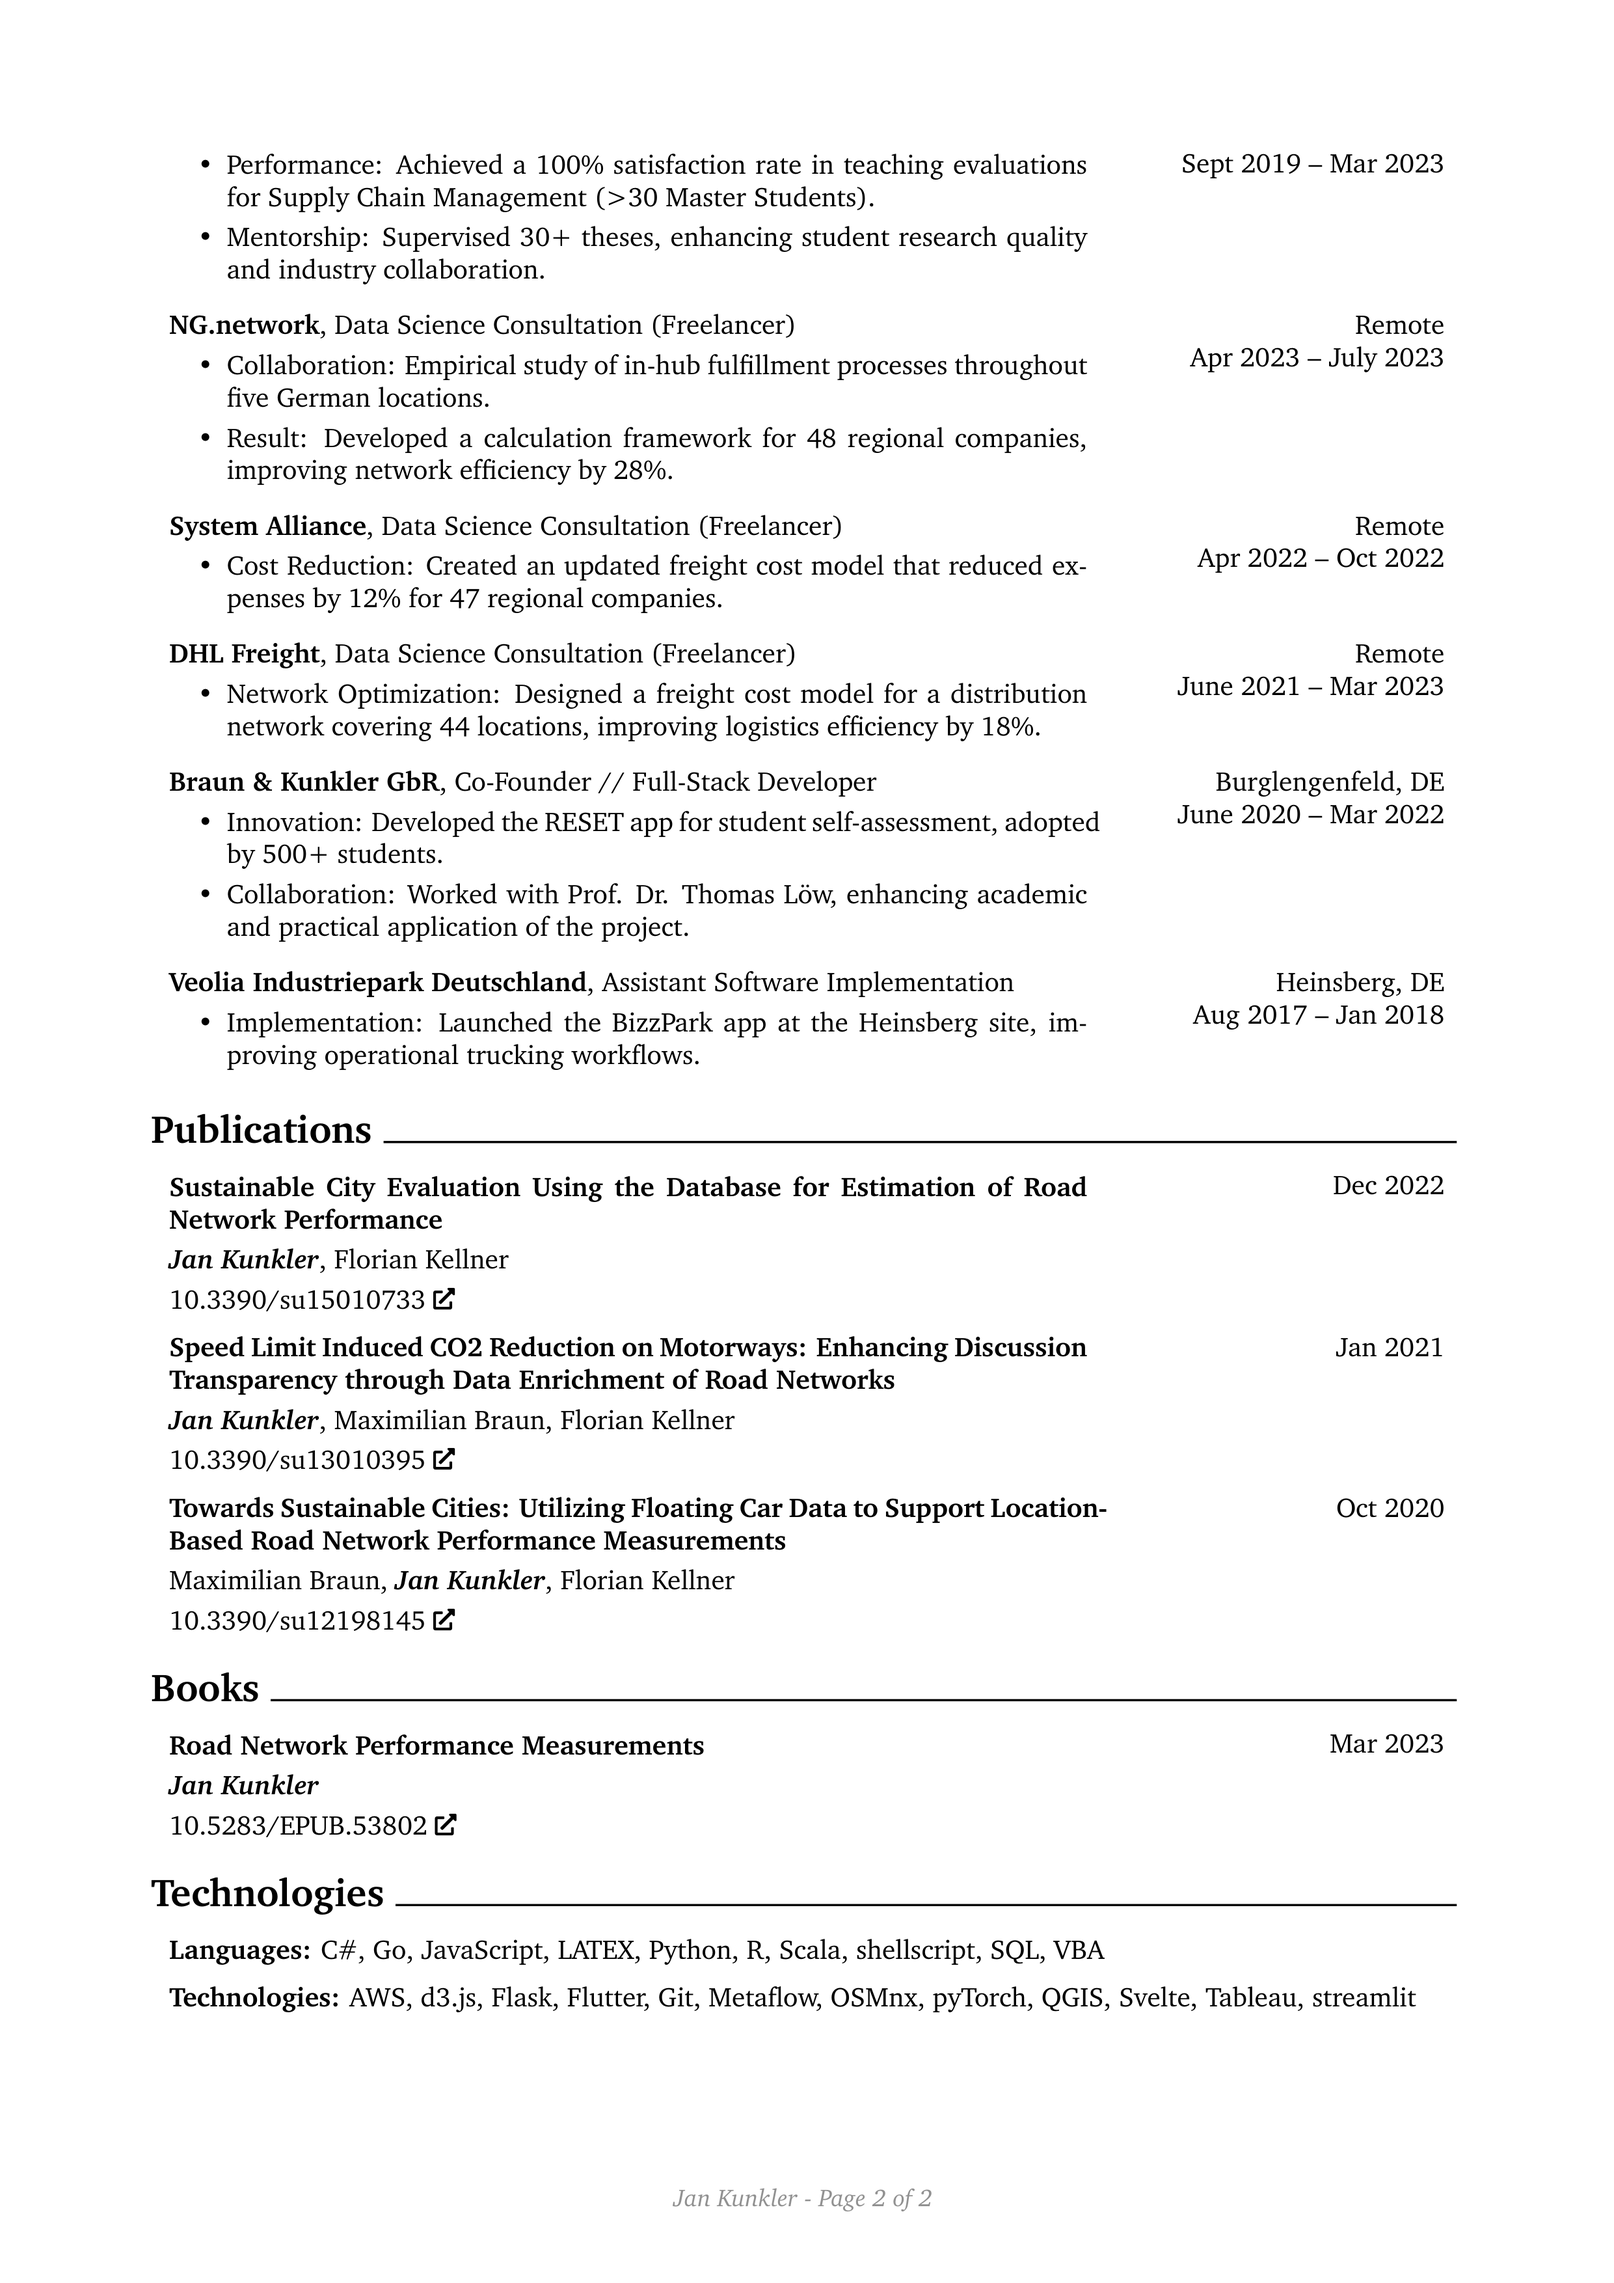
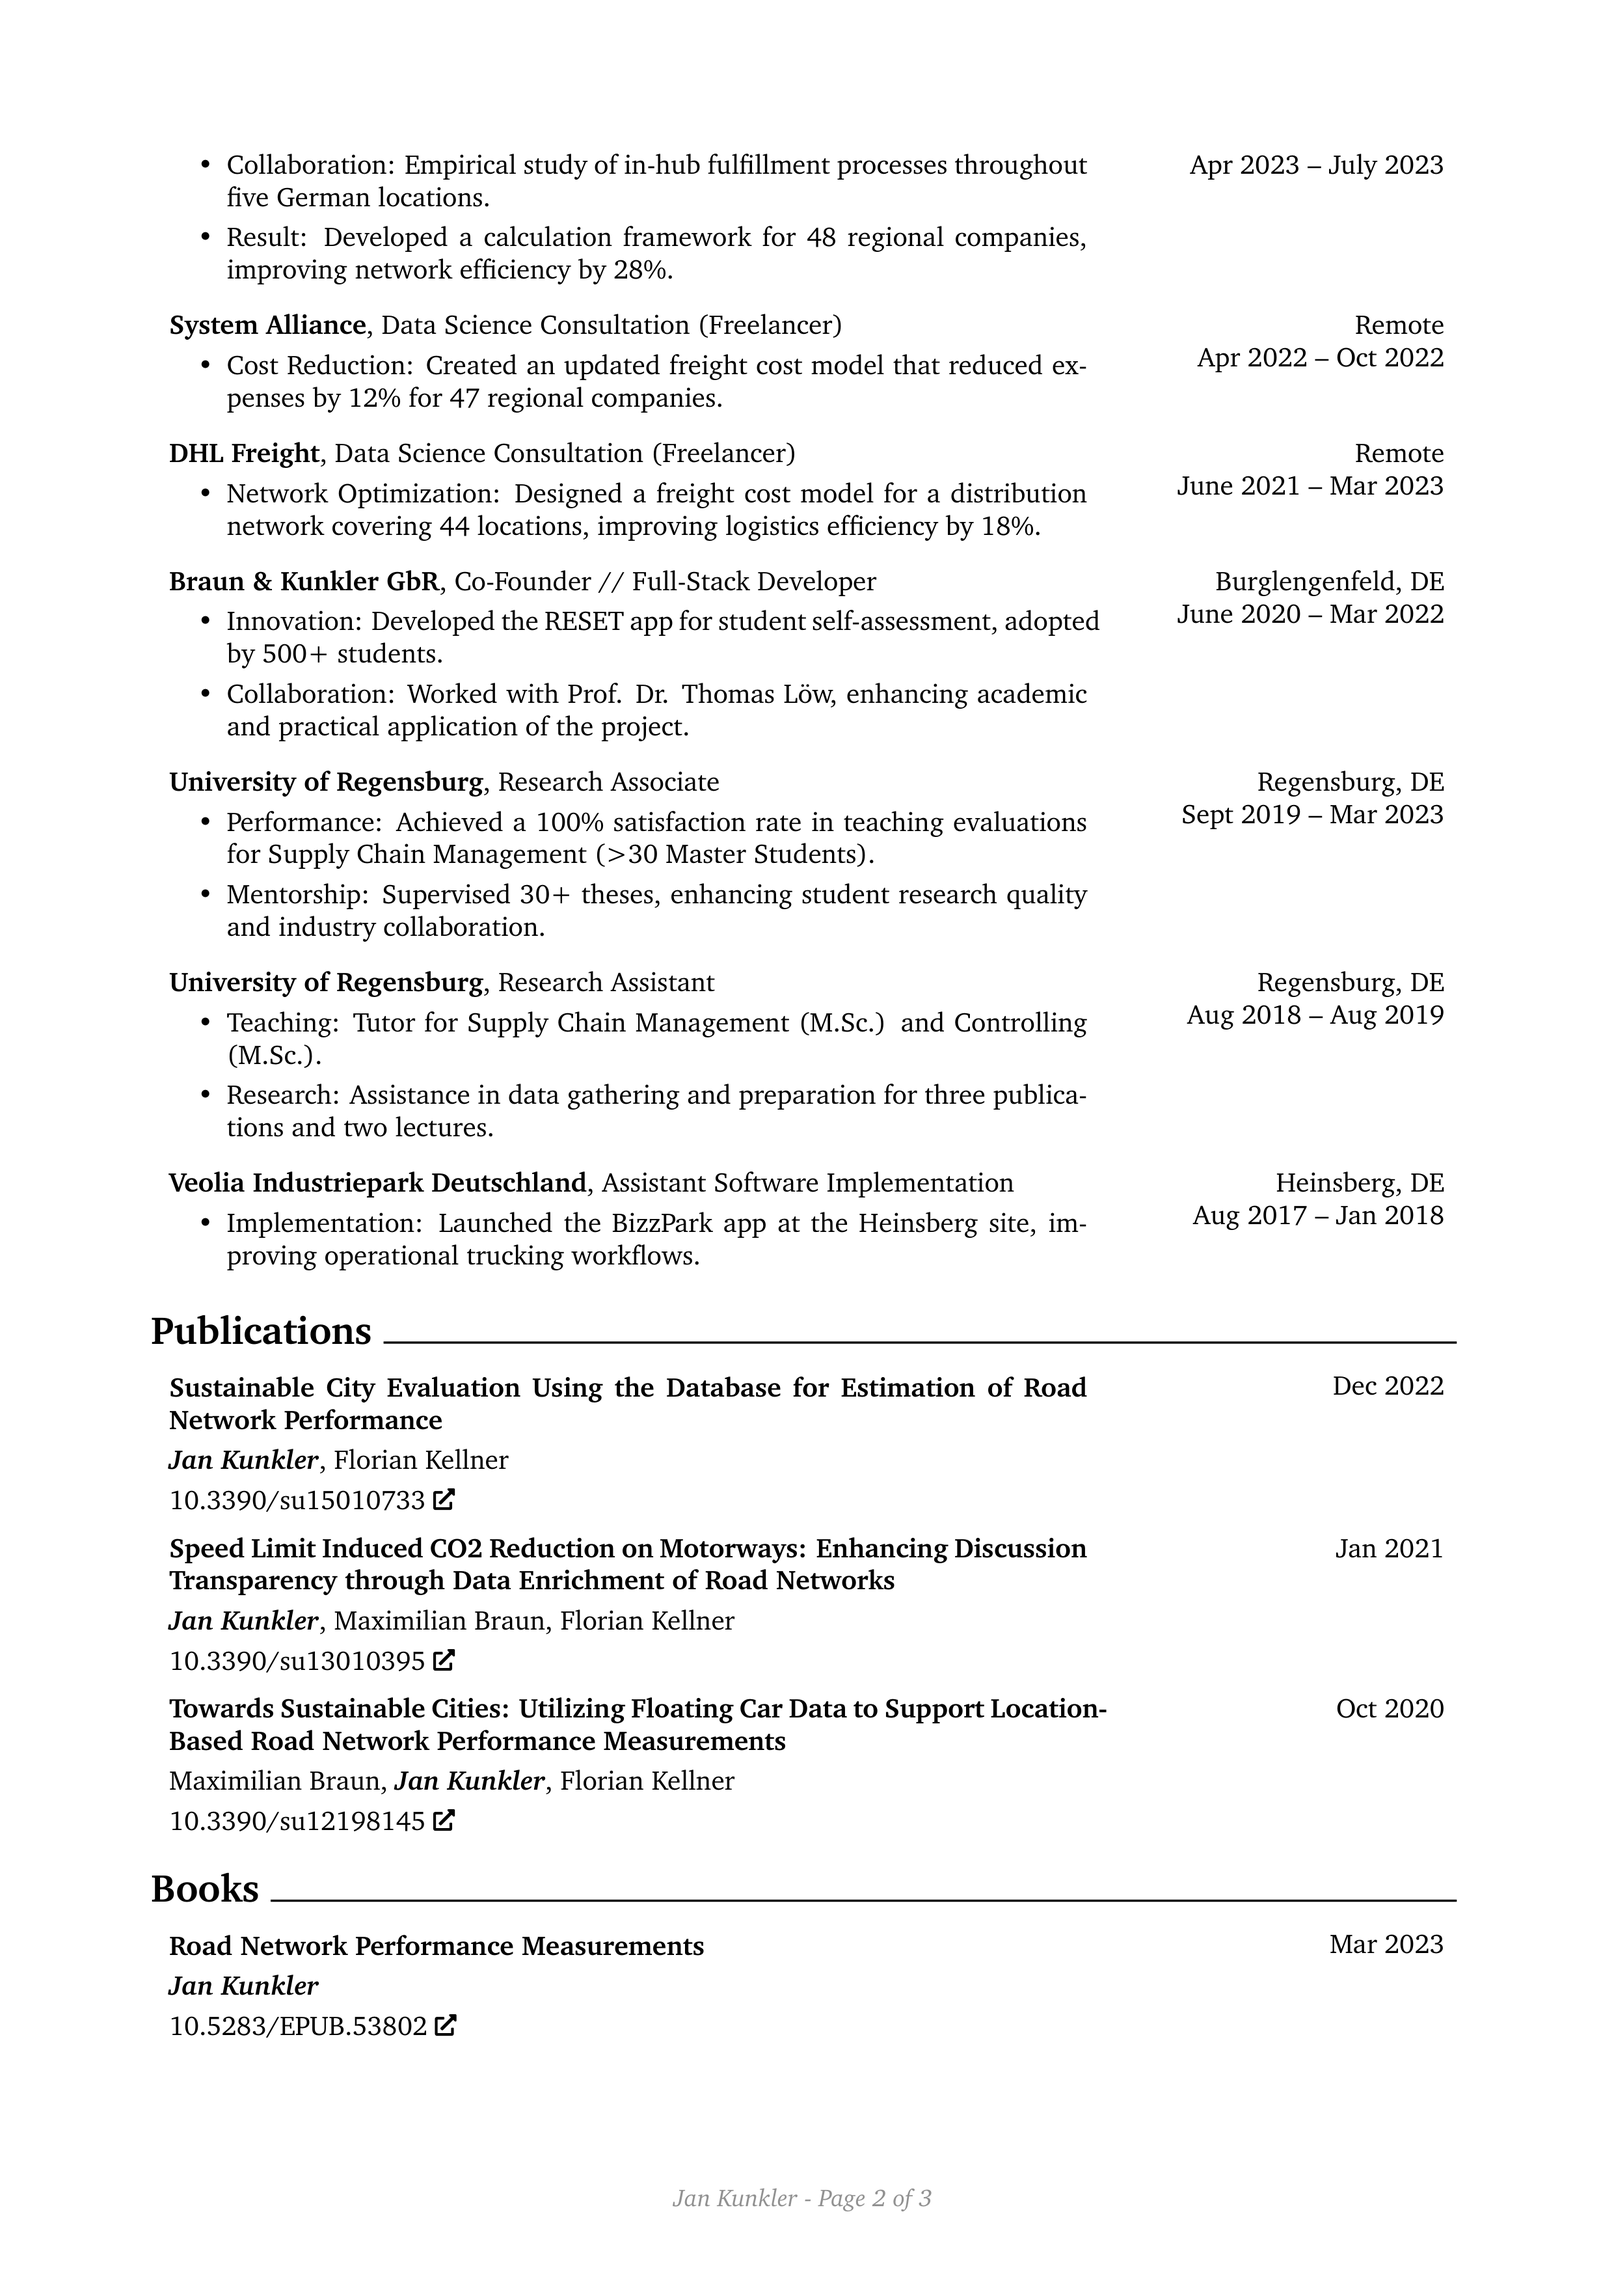
Fixed typo and added research assistant position.

diff --git a/rendercv_output/Jan_Kunkler_CV.html b/rendercv_output/Jan_Kunkler_CV.html
@@ -85,13 +85,6 @@
         <li>Engagement: Taught over 250 students in Master's and Bachelor's Degrees in Controlling &amp; Logistics.</li>
         <li>Mentorship: Supervised 6 Bachelor and 3 Master Theses in topics concerned with Digitalization of Supply Chain Operations.</li>
         </ul>
-        <h2>University of Regensburg, Research Associate</h2>
-        <ul>
-        <li>Sept 2019 – Mar 2023</li>
-        <li>Regensburg, DE</li>
-        <li>Performance: Achieved a 100% satisfaction rate in teaching evaluations for Supply Chain Management (&gt;30 Master Students).</li>
-        <li>Mentorship: Supervised 30+ theses, enhancing student research quality and industry collaboration.</li>
-        </ul>
         <h2>NG.network, Data Science Consultation (Freelancer)</h2>
         <ul>
         <li>Apr 2023 – July 2023</li>
@@ -117,6 +110,20 @@
         <li>Burglengenfeld, DE</li>
         <li>Innovation: Developed the RESET app for student self-assessment, adopted by 500+ students.</li>
         <li>Collaboration: Worked with Prof. Dr. Thomas Löw, enhancing academic and practical application of the project.</li>
+        </ul>
+        <h2>University of Regensburg, Research Associate</h2>
+        <ul>
+        <li>Sept 2019 – Mar 2023</li>
+        <li>Regensburg, DE</li>
+        <li>Performance: Achieved a 100% satisfaction rate in teaching evaluations for Supply Chain Management (&gt;30 Master Students).</li>
+        <li>Mentorship: Supervised 30+ theses, enhancing student research quality and industry collaboration.</li>
+        </ul>
+        <h2>University of Regensburg, Research Assistant</h2>
+        <ul>
+        <li>Aug 2018 – Aug 2019</li>
+        <li>Regensburg, DE</li>
+        <li>Teaching: Tutor for Supply Chain Management (M.Sc.) and Controlling (M.Sc.).</li>
+        <li>Research: Assistance in data gathering and preparation for three publications and two lectures.</li>
         </ul>
         <h2>Veolia Industriepark Deutschland, Assistant Software Implementation</h2>
         <ul>

diff --git a/rendercv_output/Jan_Kunkler_CV.tex b/rendercv_output/Jan_Kunkler_CV.tex
@@ -315,21 +315,6 @@
         \vspace{0.2 cm}
 
         \begin{twocolentry}{
-            Regensburg, DE
-
-        Sept 2019 – Mar 2023
-        }
-            \textbf{University of Regensburg}, Research Associate
-            \begin{highlights}
-                \item Performance: Achieved a 100\% satisfaction rate in teaching evaluations for Supply Chain Management (>30 Master Students).
-                \item Mentorship: Supervised 30+ theses, enhancing student research quality and industry collaboration.
-            \end{highlights}
-        \end{twocolentry}
-
-
-        \vspace{0.2 cm}
-
-        \begin{twocolentry}{
             Remote
 
         Apr 2023 – July 2023
@@ -381,6 +366,36 @@
             \begin{highlights}
                 \item Innovation: Developed the RESET app for student self-assessment, adopted by 500+ students.
                 \item Collaboration: Worked with Prof. Dr. Thomas Löw, enhancing academic and practical application of the project.
+            \end{highlights}
+        \end{twocolentry}
+
+
+        \vspace{0.2 cm}
+
+        \begin{twocolentry}{
+            Regensburg, DE
+
+        Sept 2019 – Mar 2023
+        }
+            \textbf{University of Regensburg}, Research Associate
+            \begin{highlights}
+                \item Performance: Achieved a 100\% satisfaction rate in teaching evaluations for Supply Chain Management (>30 Master Students).
+                \item Mentorship: Supervised 30+ theses, enhancing student research quality and industry collaboration.
+            \end{highlights}
+        \end{twocolentry}
+
+
+        \vspace{0.2 cm}
+
+        \begin{twocolentry}{
+            Regensburg, DE
+
+        Aug 2018 – Aug 2019
+        }
+            \textbf{University of Regensburg}, Research Assistant
+            \begin{highlights}
+                \item Teaching: Tutor for Supply Chain Management (M.Sc.) and Controlling (M.Sc.).
+                \item Research: Assistance in data gathering and preparation for three publications and two lectures.
             \end{highlights}
         \end{twocolentry}
 

diff --git a/rendercv_output/Jan_Kunkler_CV.md b/rendercv_output/Jan_Kunkler_CV.md
@@ -57,13 +57,6 @@ A dedicated data scientist with nearly 10 years of experience, I specialize in h
 - Engagement: Taught over 250 students in Master's and Bachelor's Degrees in Controlling & Logistics.
 - Mentorship: Supervised 6 Bachelor and 3 Master Theses in topics concerned with Digitalization of Supply Chain Operations.
 
-## University of Regensburg, Research Associate
-
-- Sept 2019 – Mar 2023
-- Regensburg, DE
-- Performance: Achieved a 100% satisfaction rate in teaching evaluations for Supply Chain Management (>30 Master Students).
-- Mentorship: Supervised 30+ theses, enhancing student research quality and industry collaboration.
-
 ## NG.network, Data Science Consultation (Freelancer)
 
 - Apr 2023 – July 2023
@@ -89,6 +82,20 @@ A dedicated data scientist with nearly 10 years of experience, I specialize in h
 - Burglengenfeld, DE
 - Innovation: Developed the RESET app for student self-assessment, adopted by 500+ students.
 - Collaboration: Worked with Prof. Dr. Thomas Löw, enhancing academic and practical application of the project.
+
+## University of Regensburg, Research Associate
+
+- Sept 2019 – Mar 2023
+- Regensburg, DE
+- Performance: Achieved a 100% satisfaction rate in teaching evaluations for Supply Chain Management (>30 Master Students).
+- Mentorship: Supervised 30+ theses, enhancing student research quality and industry collaboration.
+
+## University of Regensburg, Research Assistant
+
+- Aug 2018 – Aug 2019
+- Regensburg, DE
+- Teaching: Tutor for Supply Chain Management (M.Sc.) and Controlling (M.Sc.).
+- Research: Assistance in data gathering and preparation for three publications and two lectures.
 
 ## Veolia Industriepark Deutschland, Assistant Software Implementation
 
